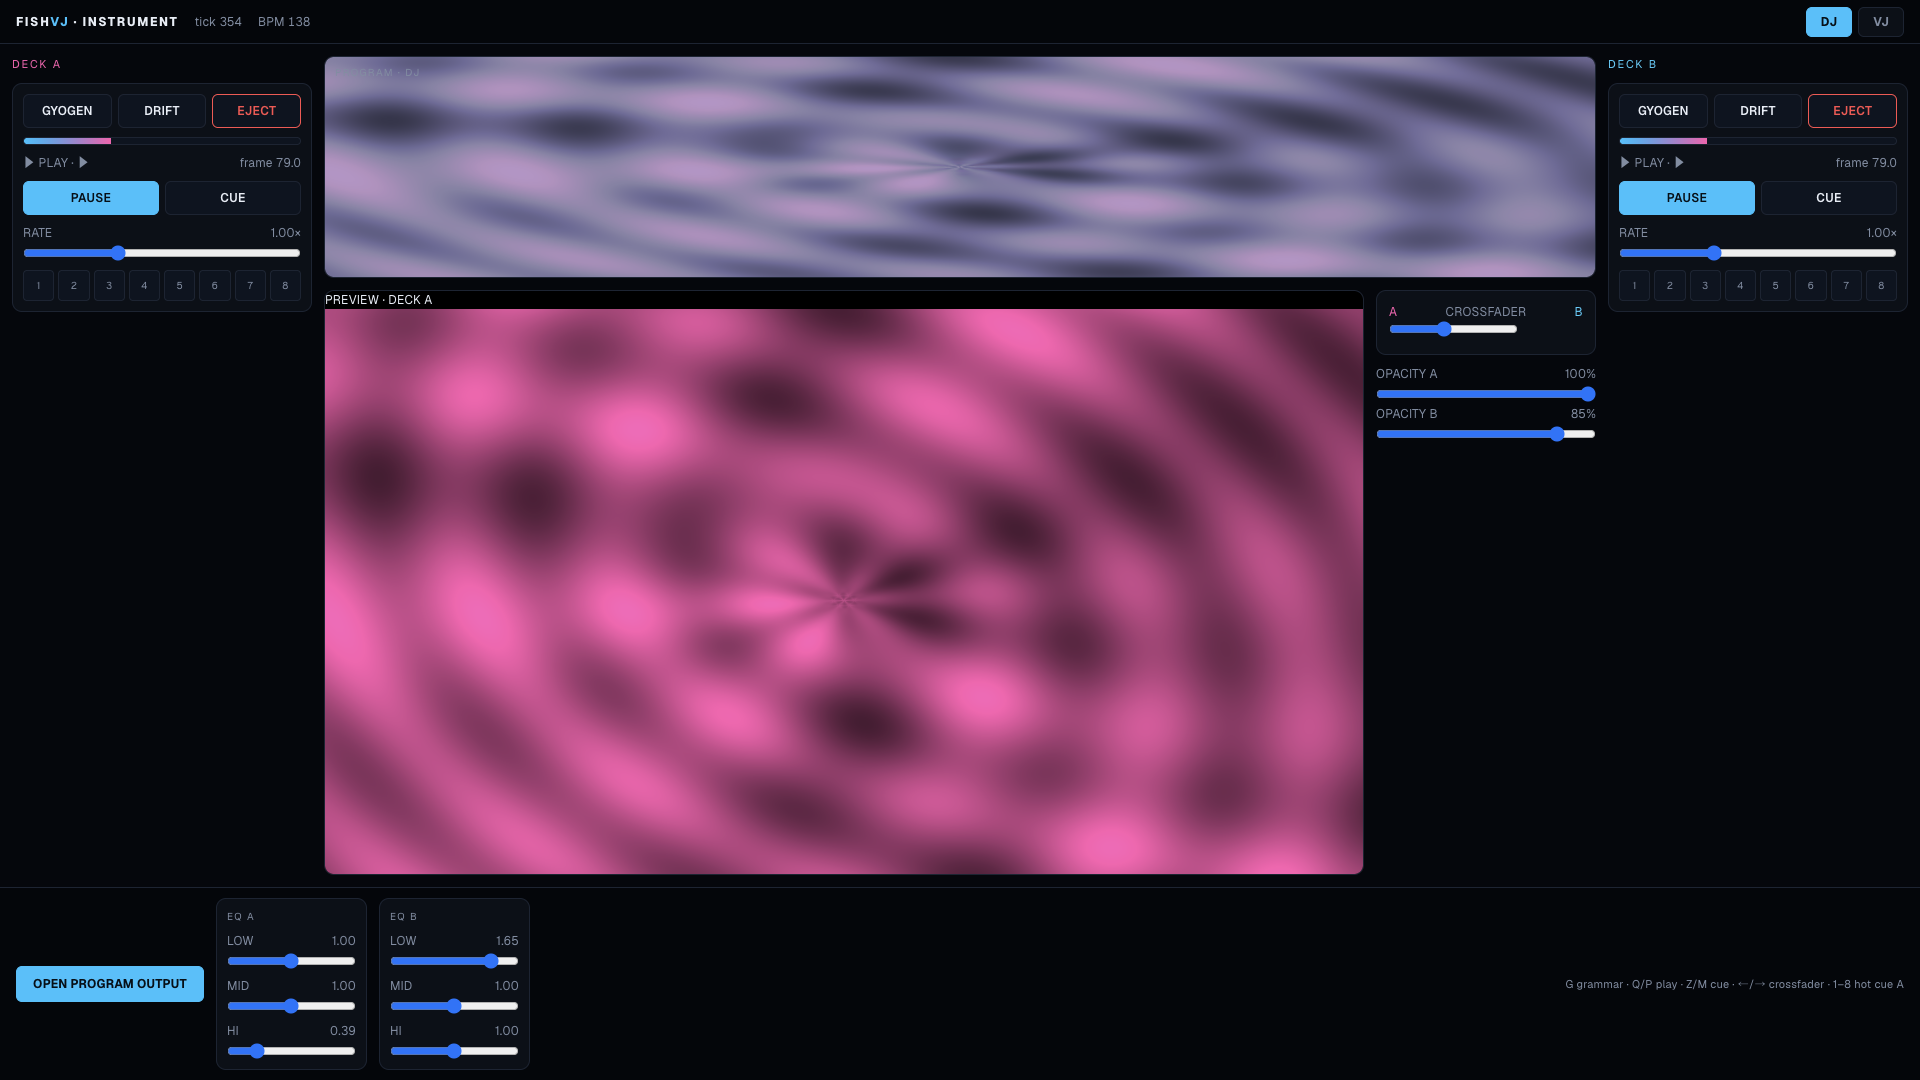
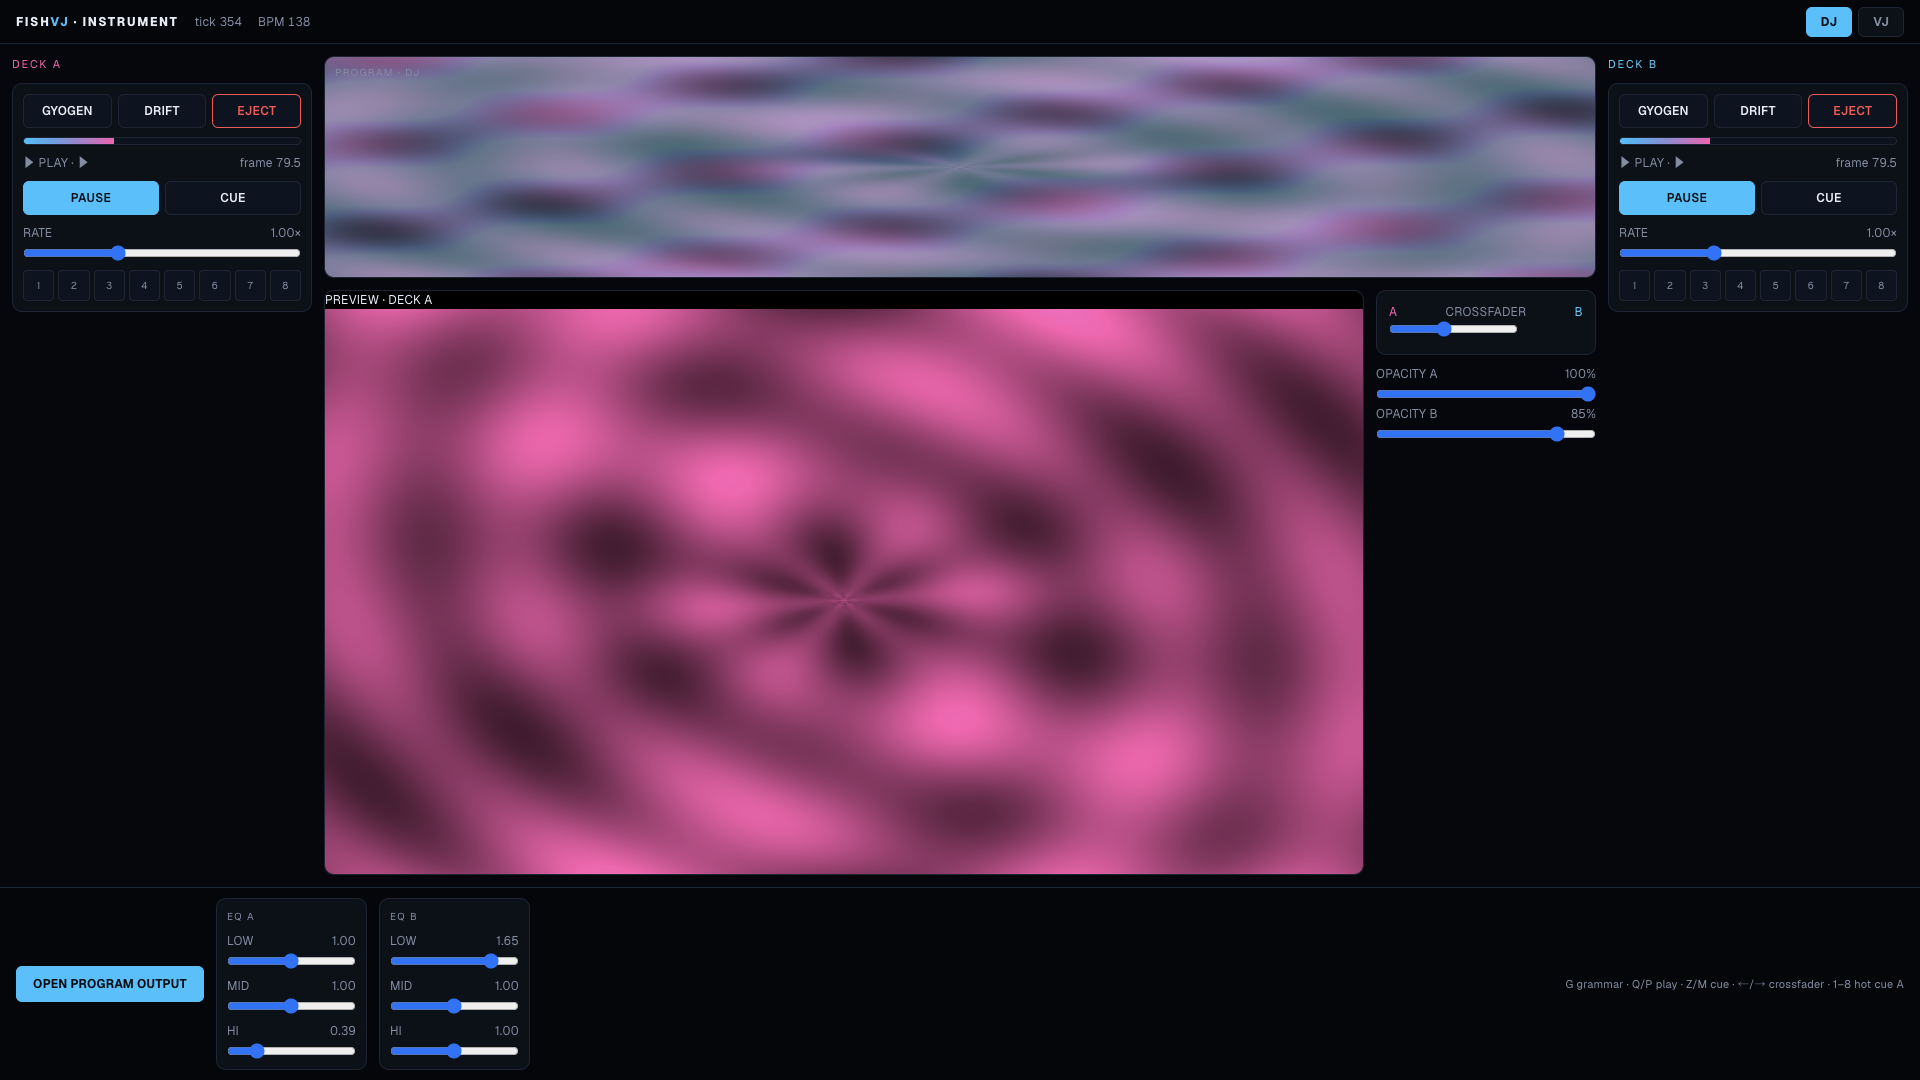
Instrument UI: differentiate deck A/B procedural content
The crossfade read as a tint wash because both decks used the same pattern
geometry. Add a per-deck seed to the compositor: deck A stays a concentric
mandala, deck B becomes a flowing diagonal weave, so the crossfader is a real
content switch, not just pink↔blue.

Console route untouched → golden unaffected. CI (lint/tsc/test:engine 58/58)
green. Updated docs/design/instrument/instrument-surface-v0.png.

Changed region(s): [[0.1562, 0.0306, 0.8438, 0.825]]

diff --git a/app/components/instrument-renderer.ts b/app/components/instrument-renderer.ts
@@ -24,25 +24,30 @@ uniform vec2 uHas;        // deck loaded flags
 uniform float uOA, uOB, uX;
 uniform vec3 uEqA, uEqB;  // LOW/MID/HI gains
 
-vec3 pattern(vec2 uv, float phase, vec3 tint){
+// seed differentiates deck geometry so decks A/B are distinct content, not just
+// a tint of the same pattern (seed 0 = concentric mandala, seed 1 = flowing
+// diagonal weave).
+vec3 pattern(vec2 uv, float phase, vec3 tint, float seed){
   vec2 c = uv - 0.5;
   float r = length(c);
   float a = atan(c.y, c.x);
-  float bands = sin((uv.x*7.0 + uv.y*3.0 + phase*0.25)*3.14159);
-  float rings = sin(r*22.0 - phase*0.5 + uTime*0.4);
-  float spokes = cos(a*6.0 + phase*0.15);
-  float v = 0.5 + 0.32*bands*rings + 0.14*spokes;
+  float f = 5.0 + seed*5.0;
+  float bands = sin((uv.x*f + uv.y*(2.0+seed*3.0) + phase*0.25)*3.14159);
+  float rings = sin(r*(20.0 - seed*12.0) - phase*0.5 + uTime*0.4);
+  float spokes = cos(a*(6.0 + seed*6.0) + phase*0.15 + seed*1.7);
+  float diag = sin((uv.x - uv.y)*(6.0 + seed*10.0) + phase*0.35 - uTime*0.3);
+  float v = 0.5 + mix(0.34*bands*rings + 0.14*spokes, 0.30*diag + 0.16*bands, seed);
   return tint * clamp(0.25 + 0.85*v, 0.0, 1.4);
 }
 
 // 3-band EQ approximated from concentric procedural samples.
-vec3 eq(vec2 uv, float phase, vec3 tint, vec3 g){
-  vec3 full = pattern(uv, phase, tint);
+vec3 eq(vec2 uv, float phase, vec3 tint, vec3 g, float seed){
+  vec3 full = pattern(uv, phase, tint, seed);
   vec3 g1 = vec3(0.0), g2 = vec3(0.0);
   for(int i=0;i<6;i++){
     float ang = float(i)*1.0472;
-    g1 += pattern(uv + vec2(cos(ang),sin(ang))*0.010, phase, tint);
-    g2 += pattern(uv + vec2(cos(ang),sin(ang))*0.030, phase, tint);
+    g1 += pattern(uv + vec2(cos(ang),sin(ang))*0.010, phase, tint, seed);
+    g2 += pattern(uv + vec2(cos(ang),sin(ang))*0.030, phase, tint, seed);
   }
   g1/=6.0; g2/=6.0;
   vec3 low = g2, mid = g1-g2, hi = full-g1;
@@ -50,8 +55,8 @@ vec3 eq(vec2 uv, float phase, vec3 tint, vec3 g){
 }
 
 void main(){
-  vec3 A = uHas.x>0.5 ? eq(vUv, uPhase.x, uTintA, uEqA) : vec3(0.0);
-  vec3 B = uHas.y>0.5 ? eq(vUv, uPhase.y, uTintB, uEqB) : vec3(0.0);
+  vec3 A = uHas.x>0.5 ? eq(vUv, uPhase.x, uTintA, uEqA, 0.0) : vec3(0.0);
+  vec3 B = uHas.y>0.5 ? eq(vUv, uPhase.y, uTintB, uEqB, 1.0) : vec3(0.0);
   float aA = uHas.x>0.5 ? uOA : 0.0;
   float aB = uHas.y>0.5 ? uOB : 0.0;
   vec3 pA = A*uOA, pB = B*uOB;   // premultiplied by channel opacity